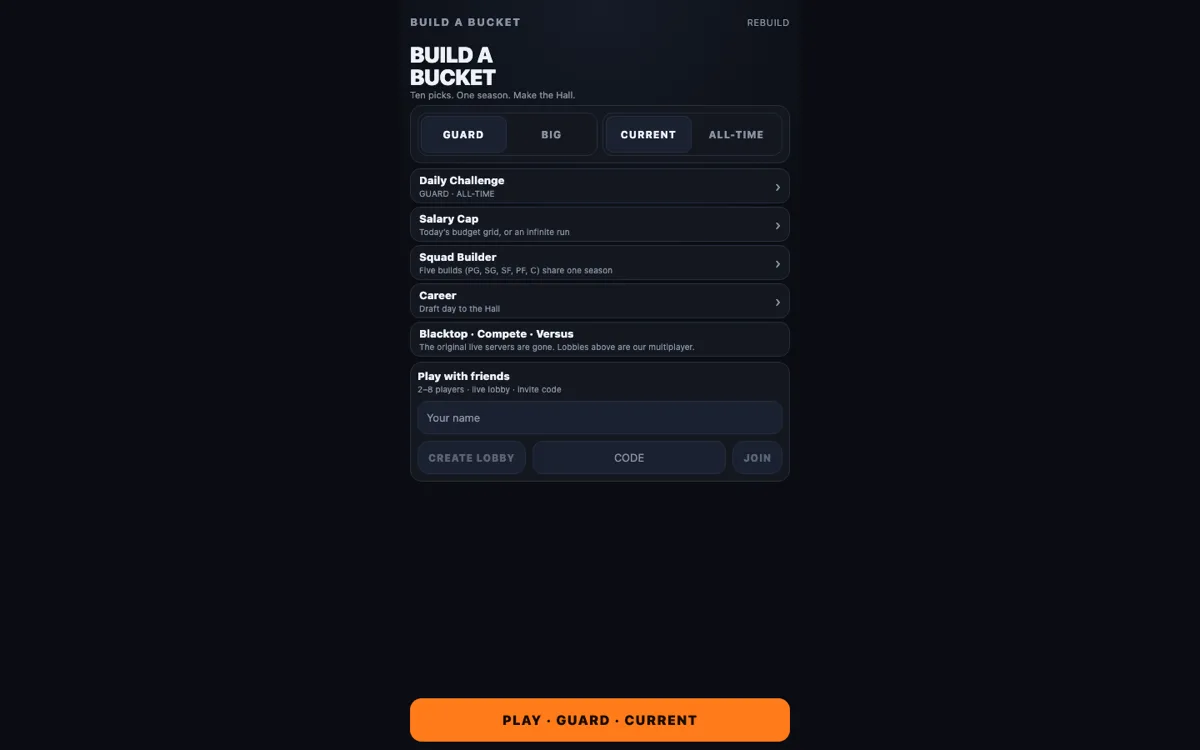
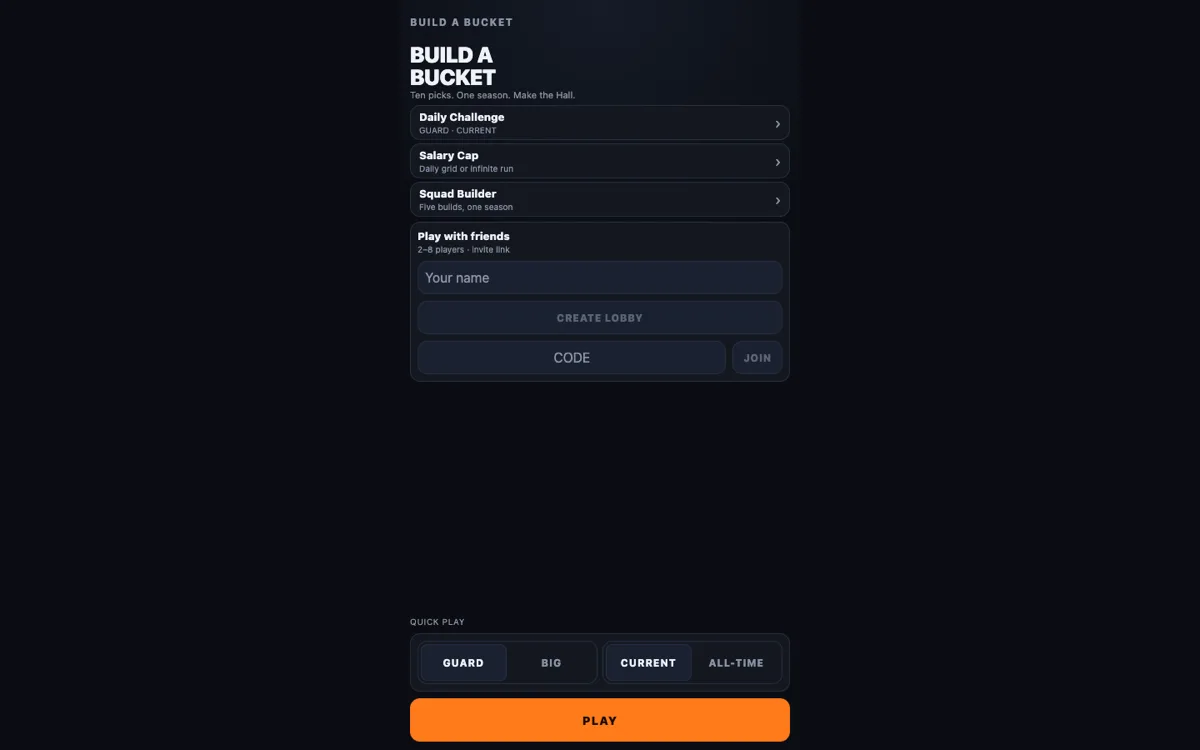
Refresh Build a Bucket, Poker Banker, and SplitWisest entries (#5)
Build a Bucket and Poker Banker repos are now public, so link their source. Drop the Career mode Build a Bucket no longer ships, describe the build-first shared league, and recapture both apps after their redesigns. Add SplitWisest's custom units and currencies.

diff --git a/README.md b/README.md
@@ -5,7 +5,7 @@ practical tools we actually use:
 
 - 25 Words or Less: live at <https://25-words-or-less.vercel.app/> / source at <https://github.com/matthewh8/25-words-or-less>
 - Better 82-0 Multiplayer: live at <https://82-0-orpin.vercel.app/> / source at <https://github.com/mchen04/better-82-0-multiplayer>
-- Build a Bucket: live at <https://build-a-bucket.vercel.app/> / private source
+- Build a Bucket: live at <https://build-a-bucket.vercel.app/> / source at <https://github.com/mchen04/build-a-bucket>
 - Ding: live at <https://ding-game.vercel.app/> / source at <https://github.com/jormyy/ding>
 - Felt: live at <https://pokernow.vercel.app/> / source at <https://github.com/mchen04/felt-poker>
 - Hark: live at <https://audiobook-pwa-plum.vercel.app/> / source at <https://github.com/mchen04/hark-audiobook> / companion converter at <https://github.com/mchen04/epub-listener>
@@ -13,7 +13,7 @@ practical tools we actually use:
 - LoLdle: live at <https://loldle-app.vercel.app/> / source at <https://github.com/mchen04/loldle>
 - Neon Royale: live at <https://casino-topaz-gamma.vercel.app/> / source at <https://github.com/mchen04/neon-royale-casino>
 - Pancake: live at <https://pancakedynasty.vercel.app/> / source at <https://github.com/jormyy/pancake>
-- Poker Banker: live at <https://poker-banker.vercel.app/> / private source
+- Poker Banker: live at <https://poker-banker.vercel.app/> / source at <https://github.com/mchen04/poker-banker>
 - SplitWisest: live at <https://splitwisest-kappa.vercel.app/> / source at <https://github.com/mchen04/splitwisest>
 - Valence: live at <https://valence1.vercel.app/> / source at <https://github.com/jormyy/valence>
 
